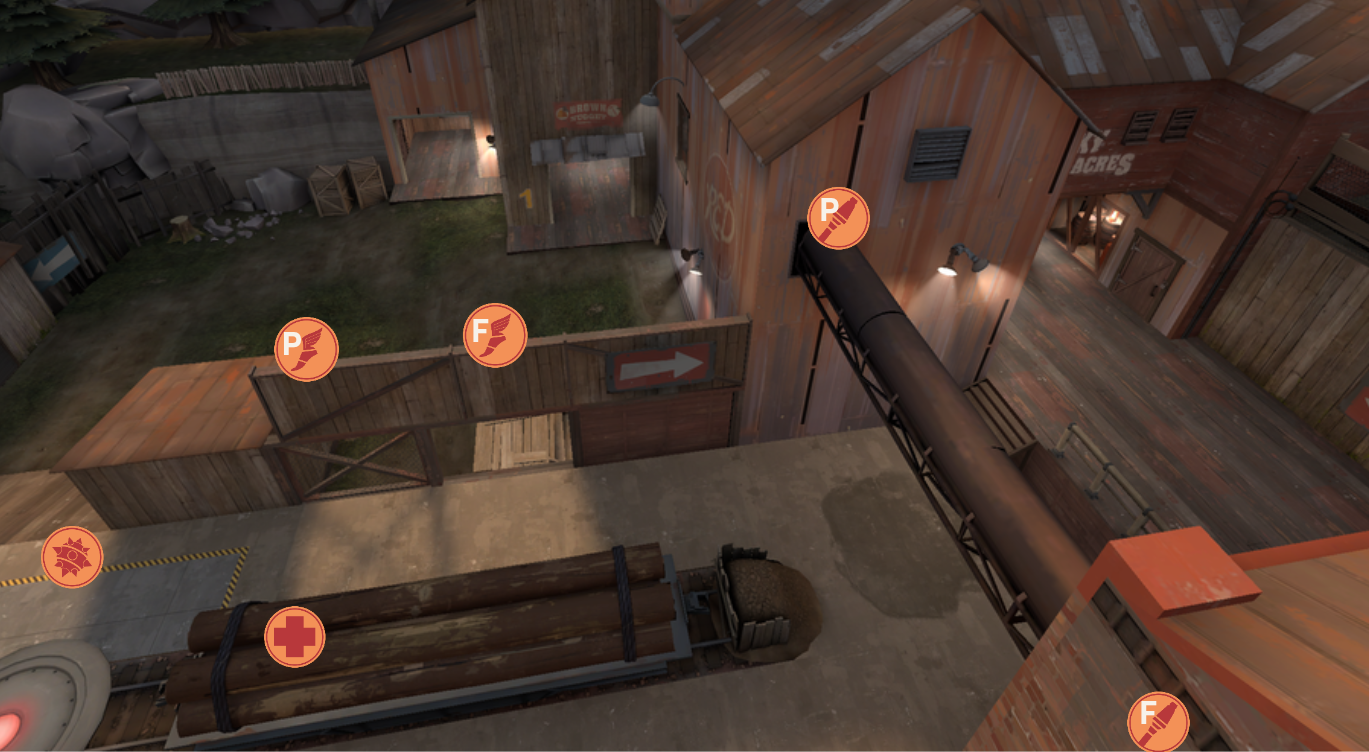
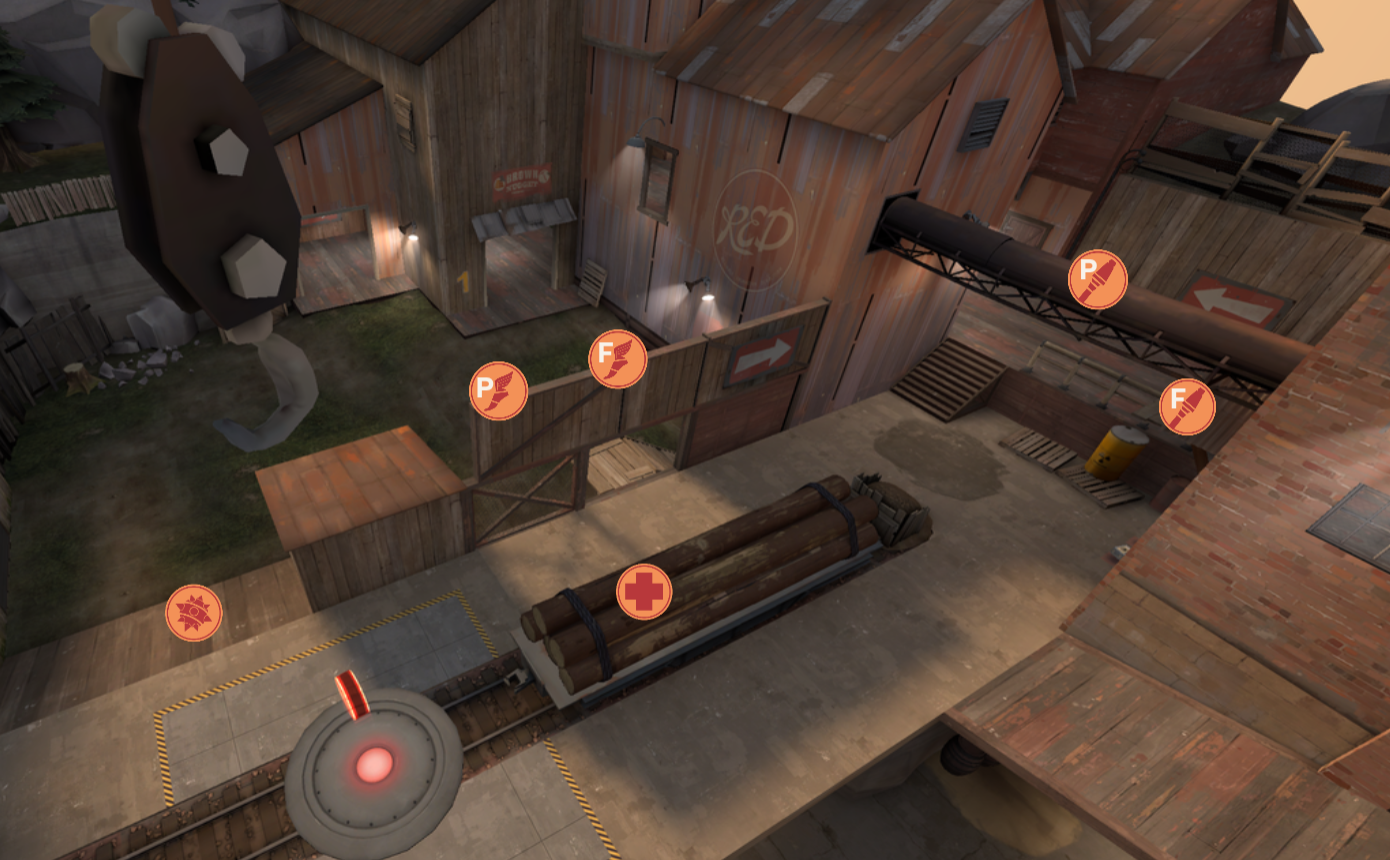
Quartz sync: Mar 18, 2026, 8:46 PM

diff --git a/content/cp_snakewater/Hold/P2 - Hold - Second/P2 - Passive.md b/content/cp_snakewater/Hold/P2 - Hold - Second/P2 - Passive.md
@@ -1,0 +1,30 @@
+# Team positioning
+
+![[cp_snakewater_second_passive.png]]
+[[#Scout Pocket]]
+[[#Scout Flank]]
+[[#Soldier Pocket]]
+[[#Soldier Flank]]
+[[#Demoman]]
+[[#Medic]]
+
+---
+# Scout Pocket
+
+Le rôle du Scout Pocket est de récupérer des informations  et de les communiquer à l'équipe (Soldiers)
+# Scout Flank
+
+Le Scout Flank peut jouer plus proche des adversaires, cela permet de récupérer des informations plus rapidement. Attention à ne pas mourir, prévoir une escape lower par ex.
+# Soldier Pocket
+
+Prend les critheals du medic, se prépare à bomb selon les calls des Scouts
+# Soldier Flank
+
+Prend l'info saw, la communique à l'équipe
+# Demoman
+
+Stick les endroits stratégique ou l'ennemi peut push, souvent l'ennemi push lower avec full ad.
+
+# Medic
+
+Ne pas mourir, overheal un max le soldier pocket

diff --git a/content/cp_snakewater/Hold/P3 - Hold - Mid/P3 - Passive - Kitchen.md b/content/cp_snakewater/Hold/P3 - Hold - Mid/P3 - Passive - Kitchen.md
@@ -1,0 +1,32 @@
+
+![[cp_snakewater_mid_passive_2.png]]
+[[#Scout Pocket]]
+[[#Scout Flank]]
+[[#Soldier Pocket]]
+[[#Soldier Flank]]
+[[#Demoman]]
+[[#Medic]]
+
+---
+# Scout Pocket
+
+Jouer le top de la hut, se préparer à escape rapidement avec le med
+
+# Scout Flank
+
+Regarder la kitchen depuis la hut rouge
+
+# Soldier Pocket
+
+Bien prendre les infos 
+
+# Soldier Pocket
+
+Peut se cacher au top point pour bomb Lower en cas de push
+
+# Demoman
+
+Se préparer à leave rapidement
+# Medic
+
+Ne pas mourir
